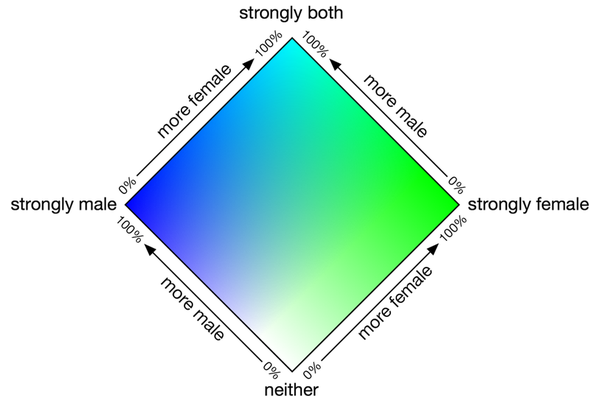
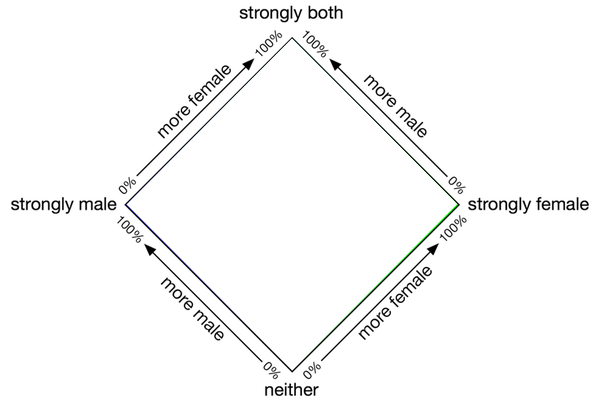
Fix up the heatmap; diamonds now uncolored

Changed region(s): [[0.21, 0.09, 0.78, 0.9]]

diff --git a/gender-diamonds/vis.js b/gender-diamonds/vis.js
@@ -63,10 +63,11 @@ function quantized(data, selector) {
     matrix[d.male_quantized - 1][d.female_quantized - 1]++;
   });
 
-  var max = 0,
+  var max = -data.length,
     min = data.length;
   matrix.forEach(function(row) {
     row.forEach(function(cell) {
+      cell = cell - (data.length / 25);
       if (cell < min) {
         min = cell;
       }
@@ -75,9 +76,9 @@ function quantized(data, selector) {
       }
     });
   });
-  var scale = d3.scale.log(50)
+  var scale = d3.scale.linear()
     .domain([min, max])
-    .range(['#ffffb2', '#fd8d3c', '#bd0026']);
+    .range(['#ffeda0', '#f03b20']);
 
   vis = d3.select(selector).append('svg')
   .attr({
